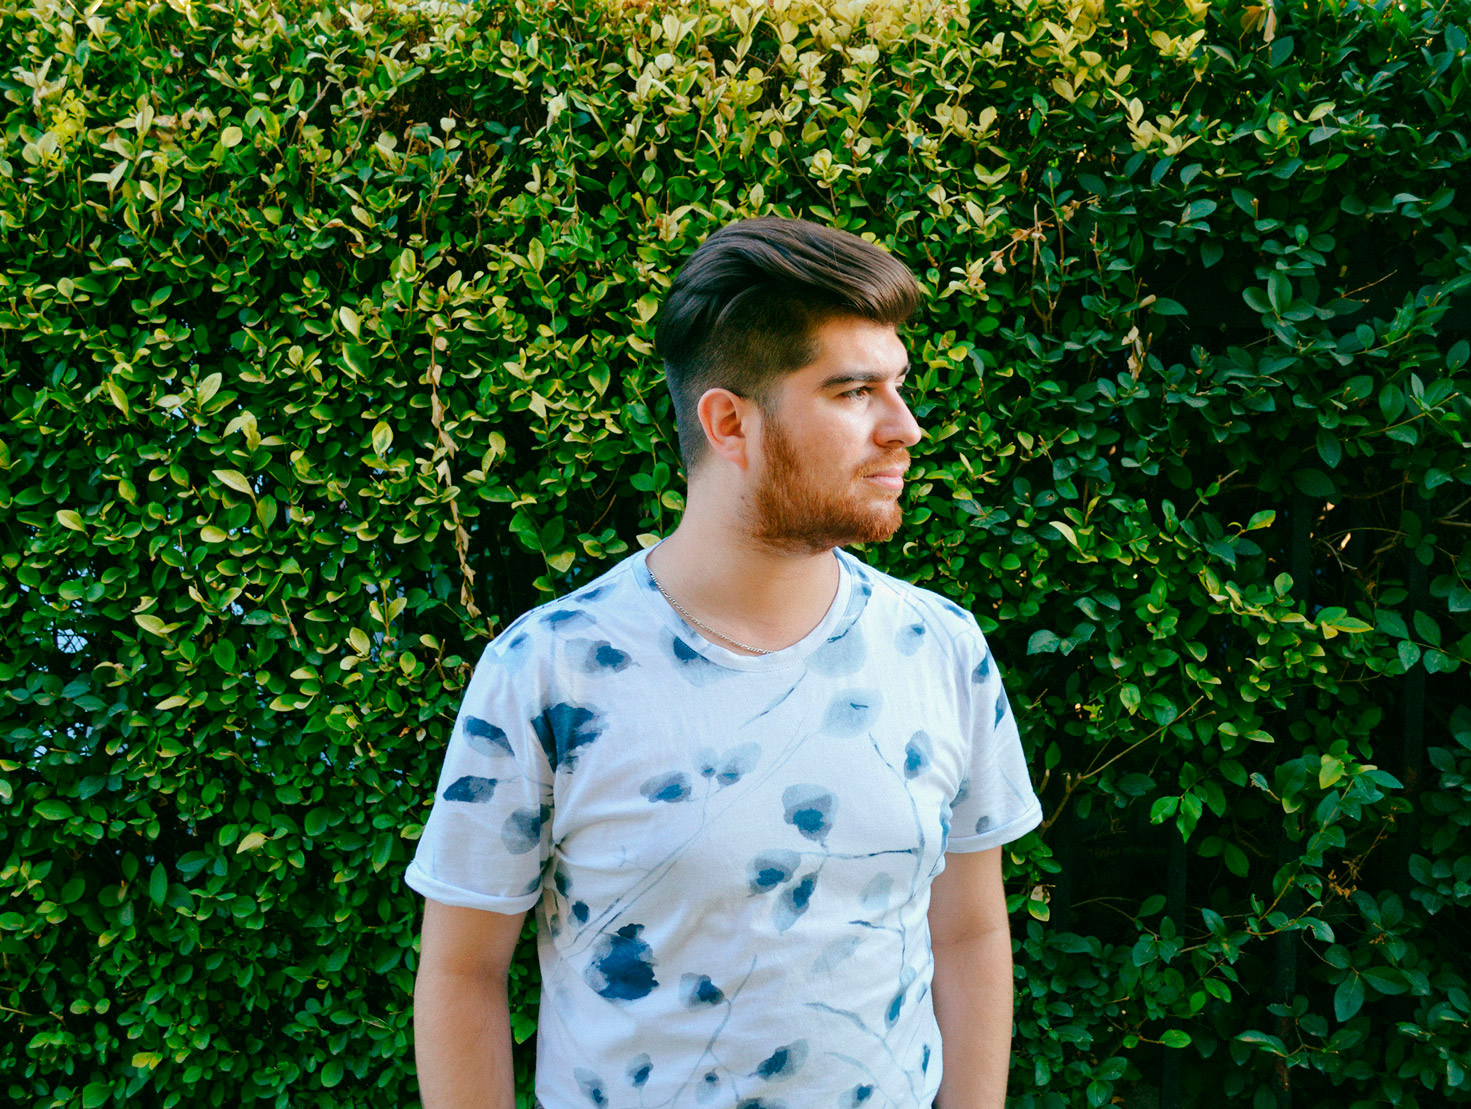
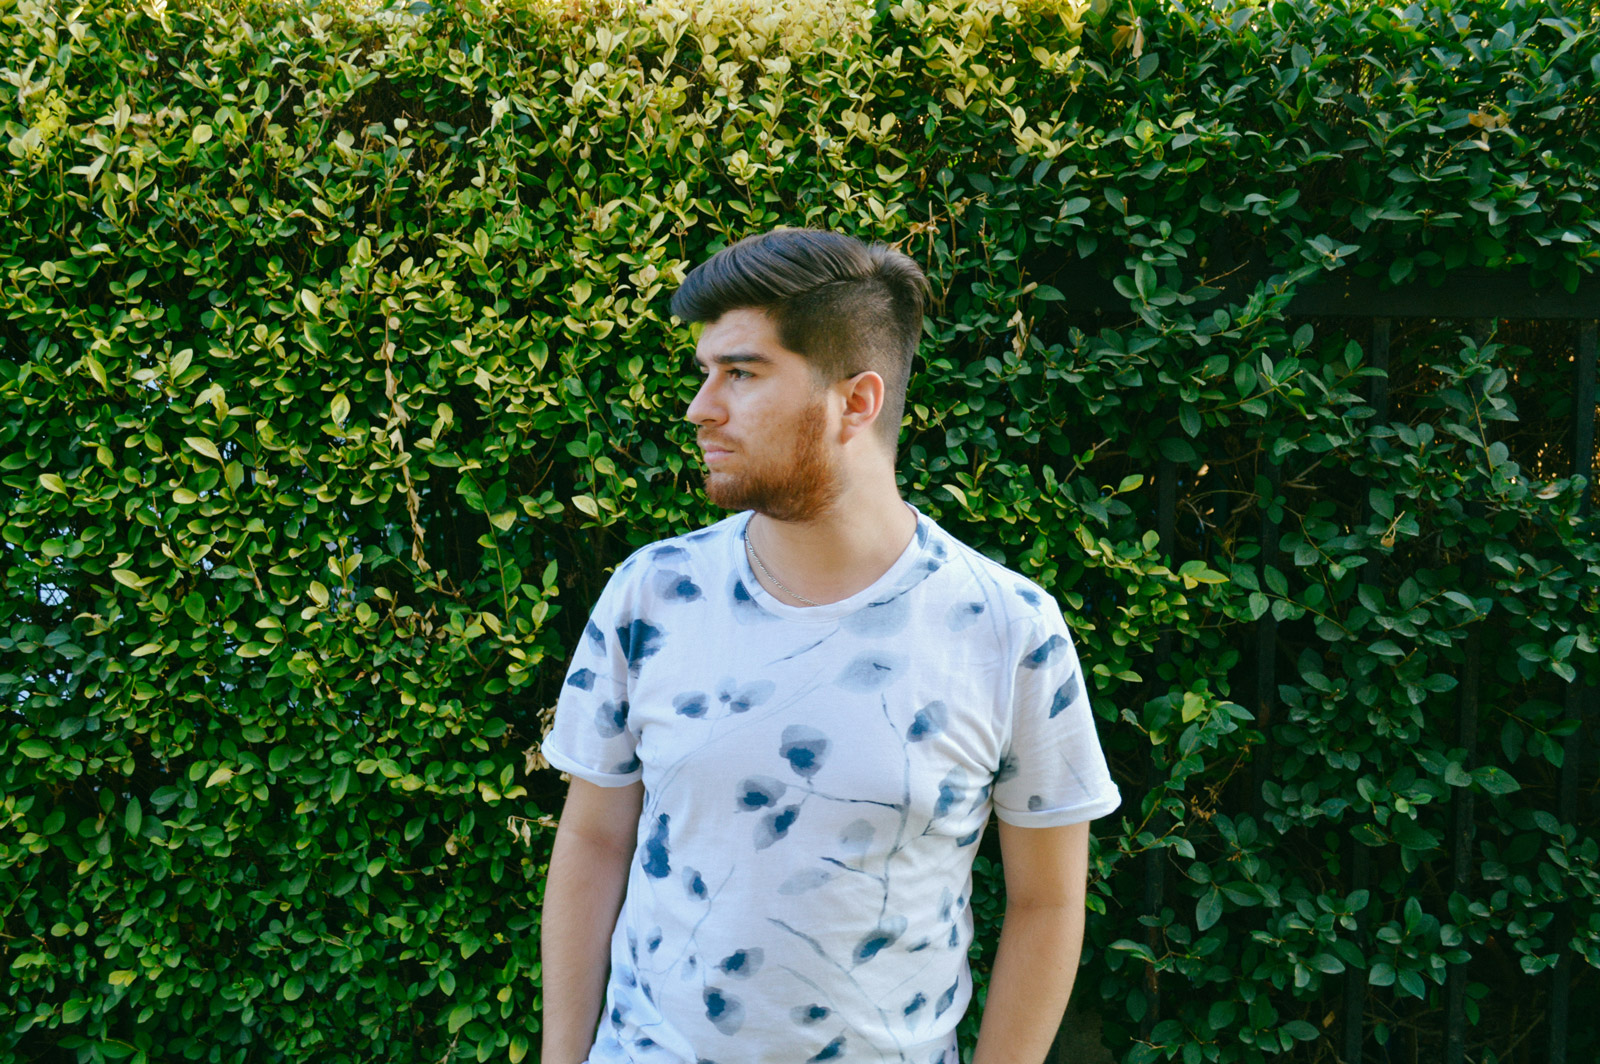
detalles por finalizar (carusel)

diff --git a/src/components/profileSlider.js b/src/components/profileSlider.js
@@ -21,20 +21,23 @@ export default class ProfileSlider extends Component {
         }
         className="profileSlider"
       >
-        {/* <SplideSlide>
-          <div className="dia">
-            <img src={process.env.PUBLIC_URL + '/img/me-1.jpg'} alt="Imagen de Perfil"/>
-          </div>
-        </SplideSlide> */}
         <SplideSlide>
-          <div className="dia">
-            <img src={process.env.PUBLIC_URL + '/img/ps_1.jpg'} alt="Imagen de Perfil 2"/>
-          </div>
+          <figure className="dia">
+            <img src={process.env.PUBLIC_URL + '/img/ps_2.jpg'} alt="Imagen de Perfil 3"/>
+            {/* <caption>2018</caption> */}
+          </figure>
         </SplideSlide>
         <SplideSlide>
-          <div className="dia">
-            <img src={process.env.PUBLIC_URL + '/img/ps_2.jpg'} alt="Imagen de Perfil 3"/>
-          </div>
+          <figure className="dia">
+            <img src={process.env.PUBLIC_URL + '/img/ps_3.jpg'} alt="Imagen de Perfil 3"/>
+            {/* <caption>Toco en una banda en la iglesia a la que asisto regularmente</caption> */}
+          </figure>
+        </SplideSlide>
+        <SplideSlide>
+          <figure className="dia">
+            <img src={process.env.PUBLIC_URL + '/img/ps_1.jpg'} alt="Imagen de Perfil 2"/>
+            {/* <caption>hola</caption> */}
+          </figure>
         </SplideSlide>
       </Splide>
     );

diff --git a/src/assets/sass/profileSlider.sass b/src/assets/sass/profileSlider.sass
@@ -19,18 +19,13 @@
         display: flex
         justify-content: center
         align-items: center
+        flex-wrap: wrap
         img
-            height: 100%
+            height: 90%
             vertical-align: middle
-            // margin: 
-            //     left: 20px
-            //     right: 20px
-            // max-width: 80vw
-            // height: 100%
-            // height: 100%
-
-            // width: 100% 
-            // max-height: 80vh 
+        caption
+            // width: 100%
+            // max-width: 300px
 
 @media (min-width: 600px)
     .splide__slide
@@ -43,7 +38,7 @@
             // align-items: center
             img
                 max-width: 500px
-                max-height: 100%
+                max-height: 90%
                 height: auto
                 // margin: 
                 //     left: 20px
@@ -69,7 +64,7 @@
 
 @media (min-width: 1200px)
     .splide__slide
-        height: 500px
+        height: 580px
         .dia
             // margin: 0 20px
             // height: 100%
